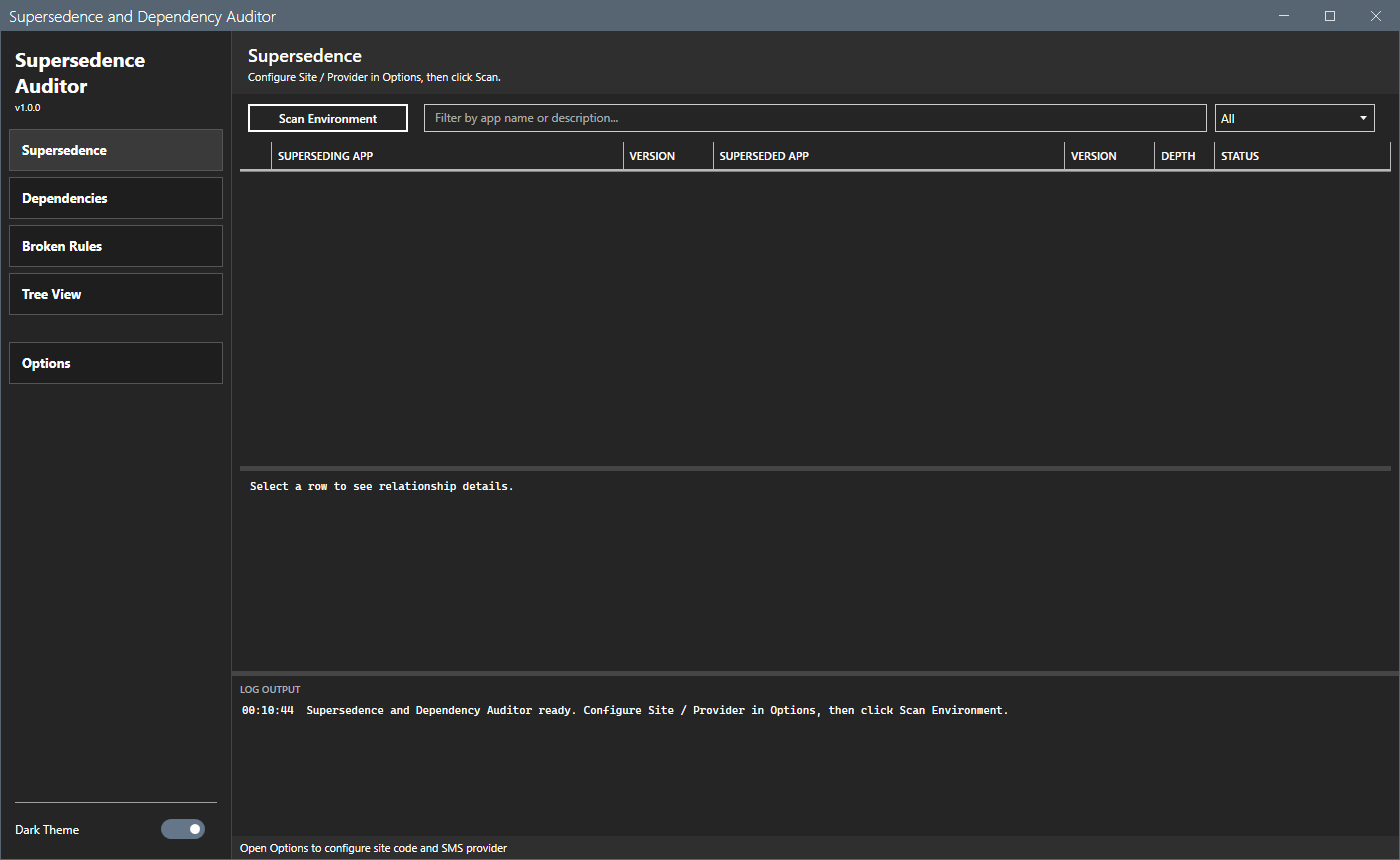
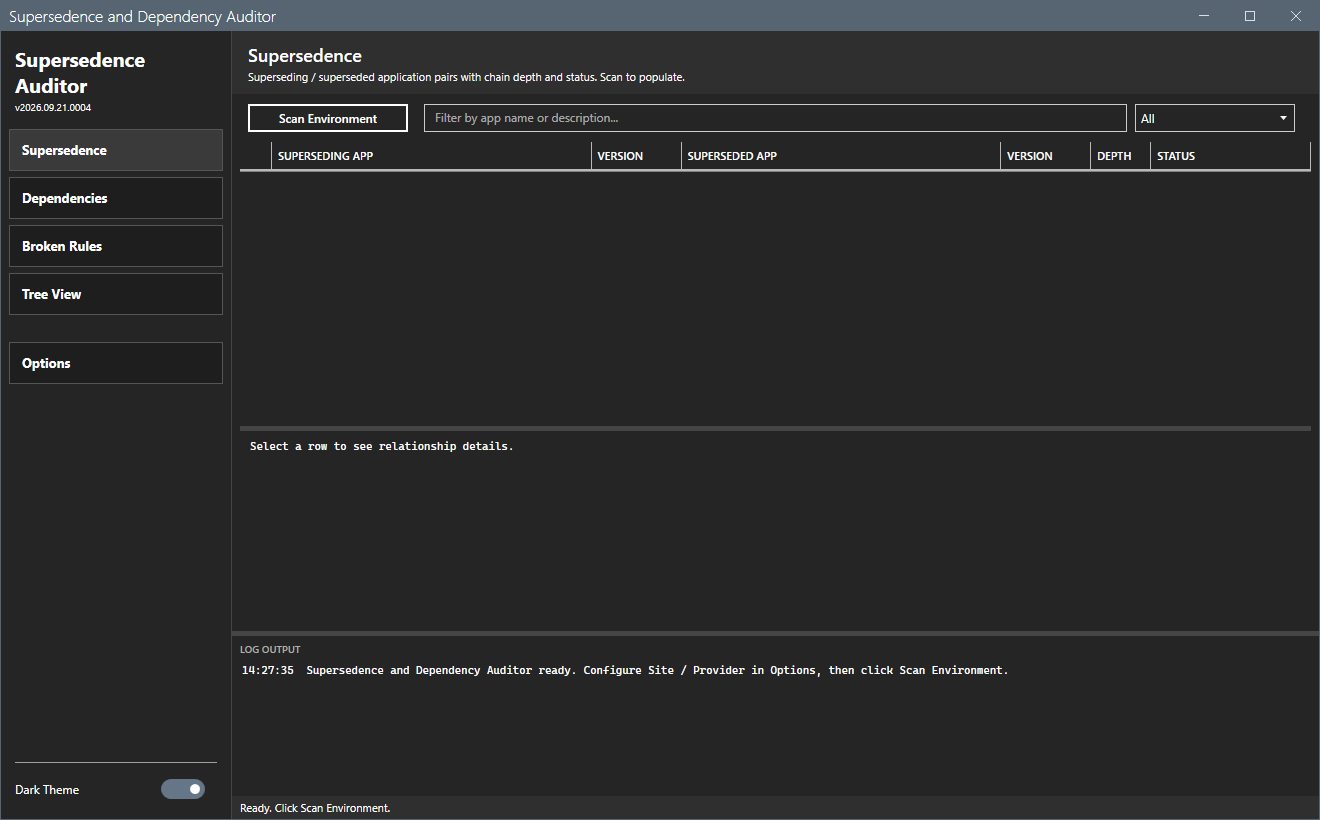
Use the launcher site code and provider when none is saved; update the screenshot; 2026.09.21.0004

diff --git a/CHANGELOG.md b/CHANGELOG.md
@@ -3,6 +3,16 @@
 All notable changes to Supersedence and Dependency Auditor are
 documented in this file.
 
+## [2026.09.21.0004] - 2026-09-21
+
+### Fixed
+
+- Use the site code and provider from the suite launcher when the tool has none saved.
+
+### Changed
+
+- Update the README screenshot.
+
 ## [2026.09.21.0003] - 2026-09-21
 
 ### Changed
